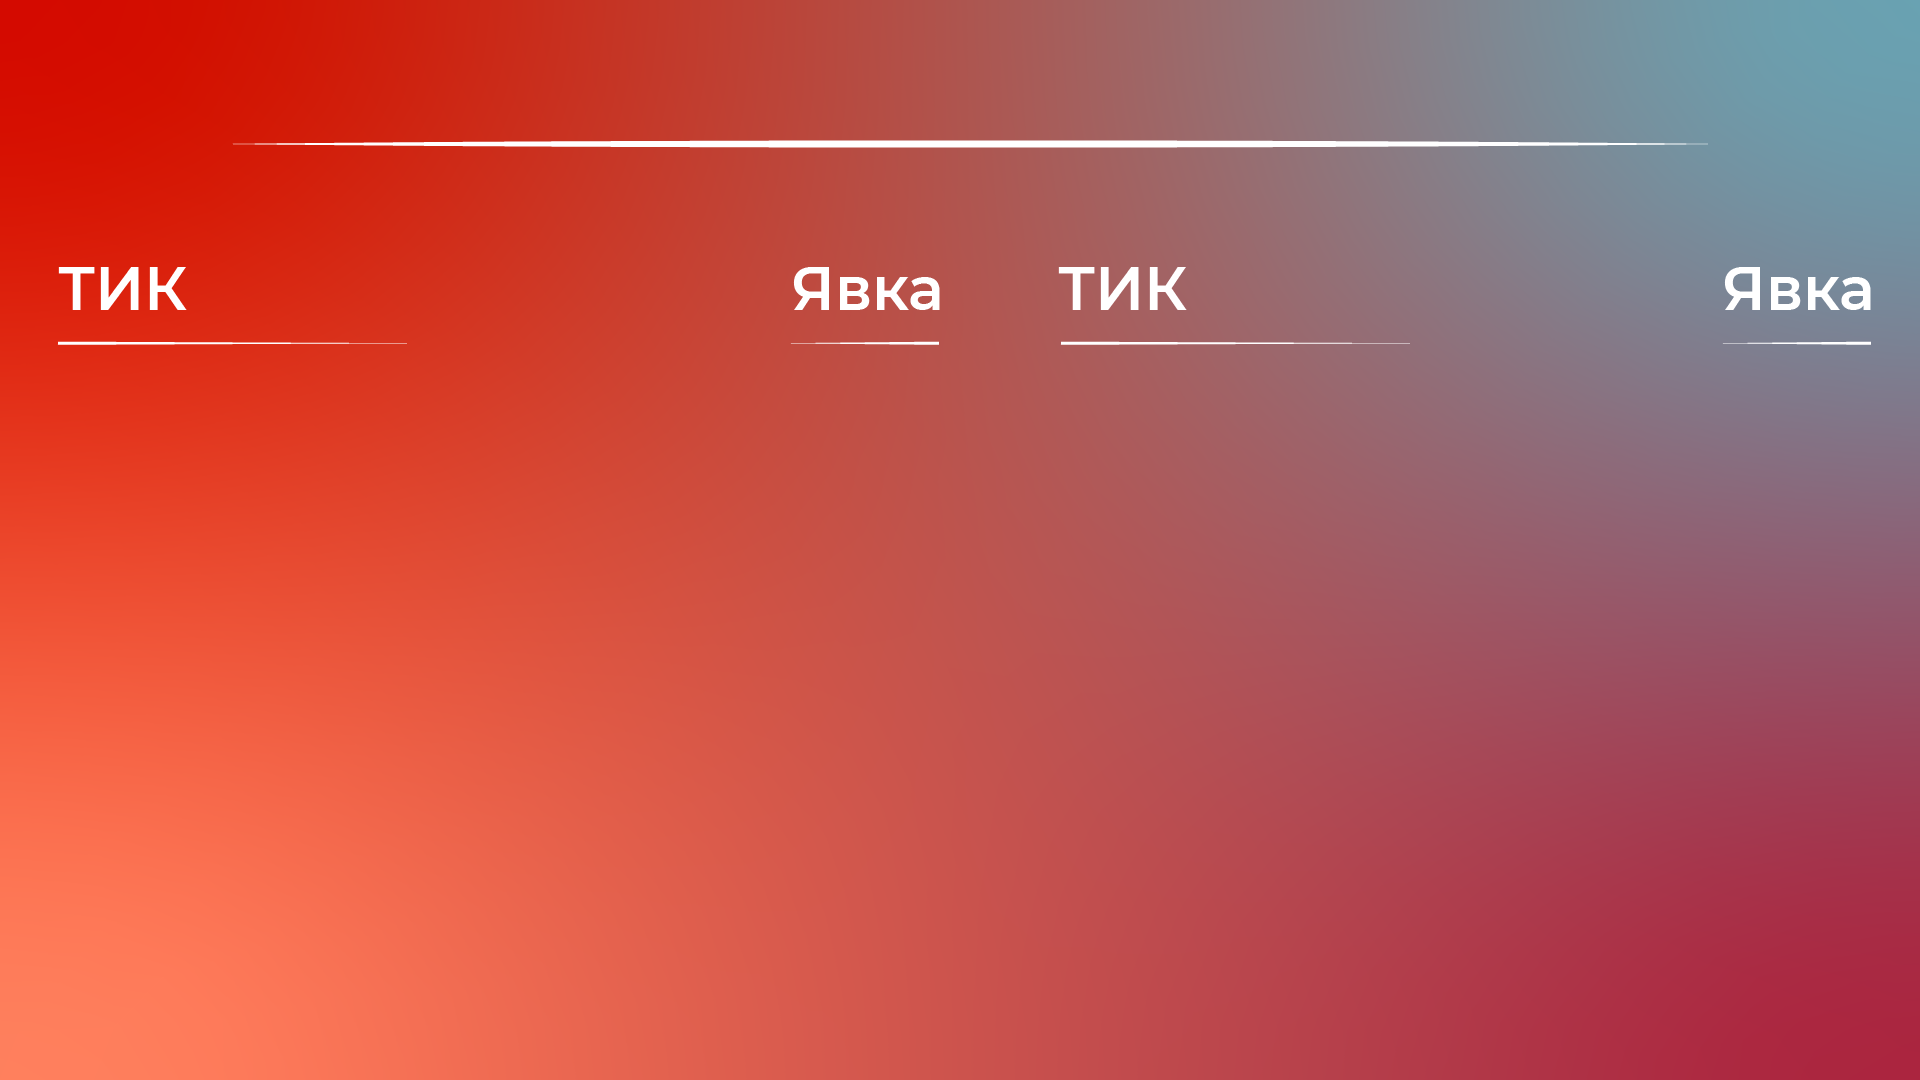
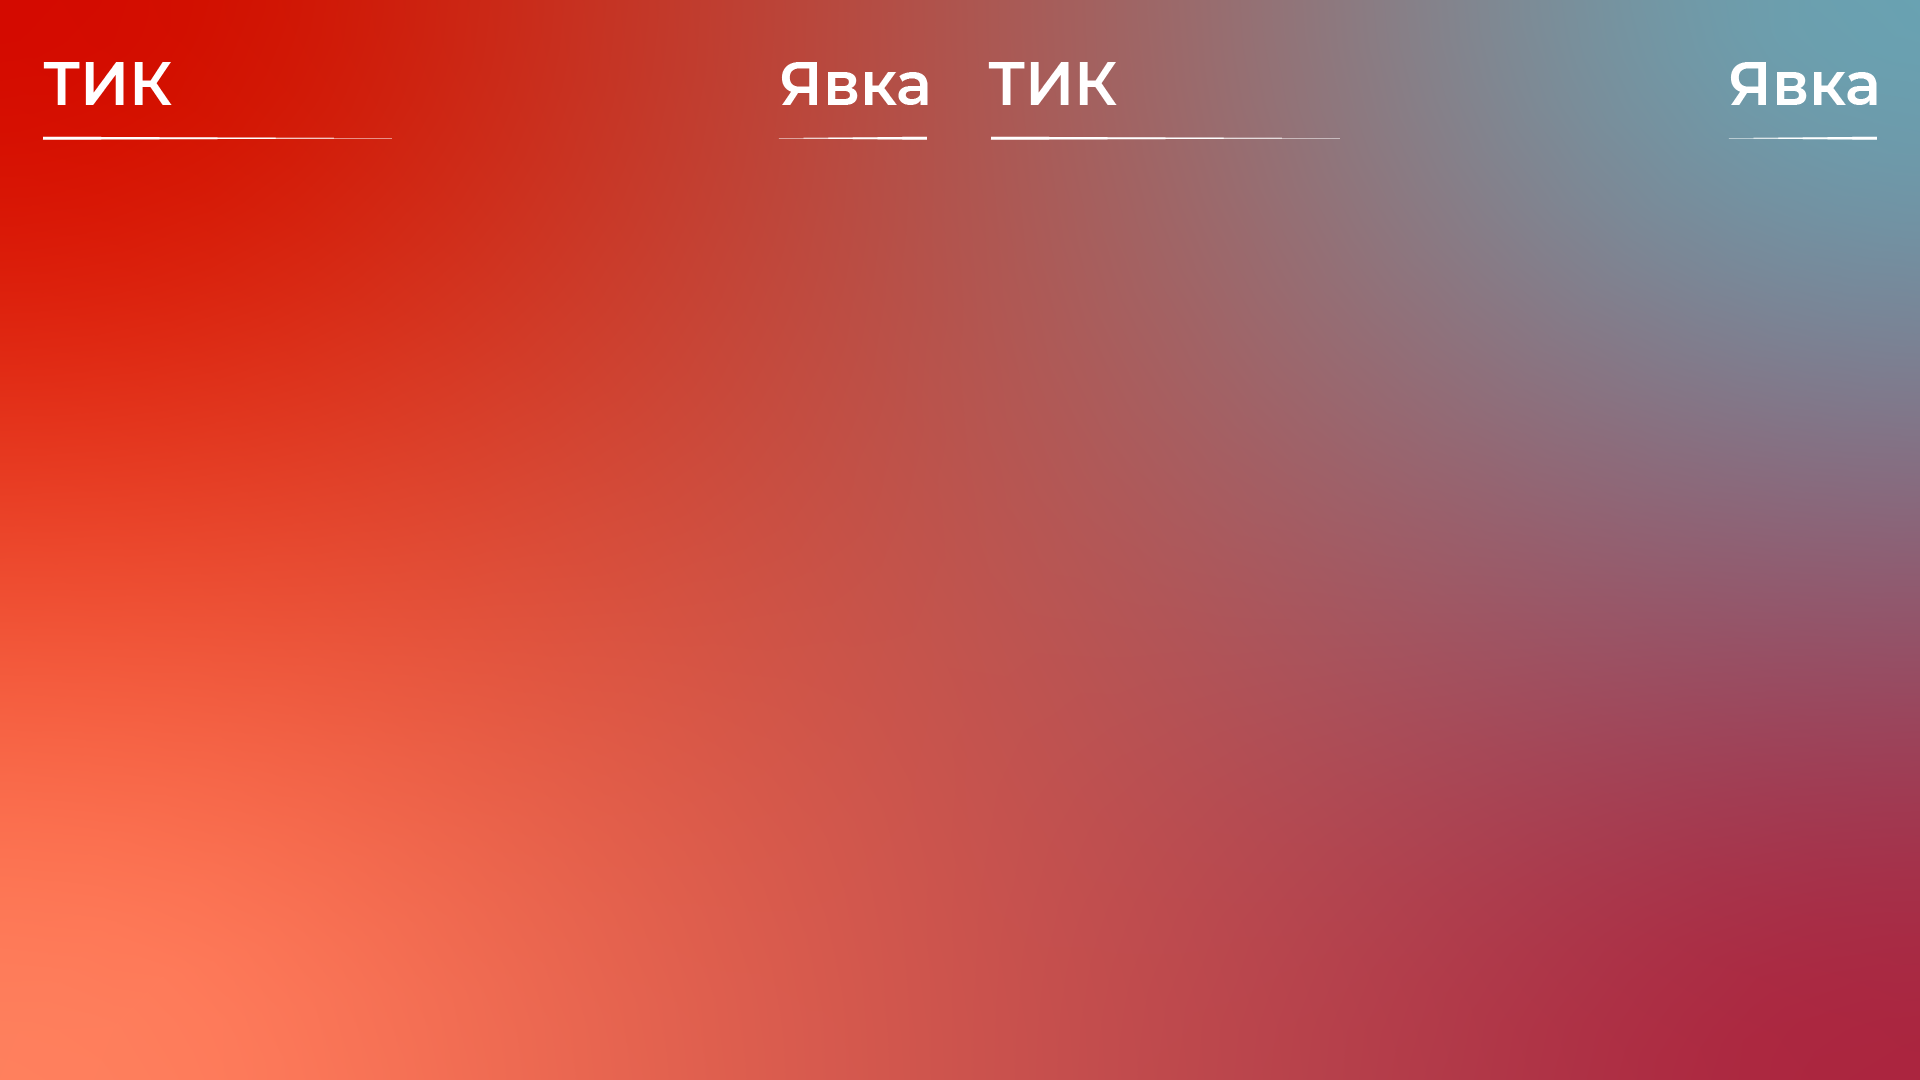
presence display

diff --git a/frontend/src/components/journalistScreens/7_presence.vue b/frontend/src/components/journalistScreens/7_presence.vue
@@ -1,22 +1,29 @@
 <template>
+<div class ="block">
+  <div class="container-fluid" :style="{'background-color': 'transparent !important'}">
 
-  <div class="container">
-
-      <div class="row">
-        <div class="col-sm-6" v-for="(elem, i) in presence.slice(0,8)" :key="i">
+      <div class="row text-white h1 ml-3 mt-5">
+        <div class="col-6" v-for="(elem, i) in presence.slice(0,8)" :key="i">
           <div class="row" v-for="(el, j) in elem" :key="j">
-
-          {{el.num_tik}}
-          {{el.presence}}
+            <div class="col text-left">
+              {{el.num_tik}}
+            </div>
+            <div class="col text-right">
+              {{el.presence}}%
+            </div>
 
           </div>
 
         </div>
-       <div class="col-sm-6" v-for="(elem, i) in presence.slice(8,16)" :key="i">
+       <div class="col-6" v-for="(elem, i) in presence.slice(8,16)" :key="i">
           <div class="row" v-for="(el, j) in elem" :key="j">
+            <div class="col text-left">
 
           {{el.num_tik}}
+              </div>
+            <div class="col text-right">
           {{el.presence}}
+              </div>
 
           </div>
 
@@ -26,6 +33,7 @@
       </div>
 
     </div>
+  </div>
 </template>
 
 <script>
@@ -45,11 +53,15 @@ export default {
 
 <style scoped>
 .block {
-    border: 1px solid blueviolet;
-    height: 400px;
+
+    height: 100vh;
+
+    background-image:url("../../assets/journalistScreens/7.png");
+
     display: flex;
     align-items: center;
     justify-content: center;
+
 
 
 }

diff --git a/frontend/src/components/journalistScreens/5_toptik.vue b/frontend/src/components/journalistScreens/5_toptik.vue
@@ -1,7 +1,17 @@
 <template>
-  <div>
-    {{data.population}}
-    {{data.num_tik}}
+  <div class="block">
+    <div class="container-fluid" :style="{'background-color': 'transparent !important'}">
+      <div class="row">
+        <div class ="col-12 align-self-start">
+        {{data.population}}
+        </div>
+      </div>
+      <div class="row">
+        <div class="col-12 align-self-end">
+          {{data.num_tik}}
+        </div>
+      </div>
+    </div>
   </div>
 </template>
 
@@ -24,5 +34,18 @@ export default {
 </script>
 
 <style scoped>
+.block {
+
+    height: 100vh;
+
+    background-image:url("../../assets/journalistScreens/5.png");
+
+    display: flex;
+    align-items: center;
+    justify-content: center;
+
+
+
+}
 
 </style>

diff --git a/frontend/src/components/Demonstration.vue b/frontend/src/components/Demonstration.vue
@@ -91,7 +91,7 @@ export default {
         if (this.state === 0 || this.state === 5 || this.state === 10) {
           const currentTime = new Date().getTime()
           if (currentTime > this.config.firstConference * 1000) {
-            this.state = 5 //0
+            this.state = 0 //0
           } else if (currentTime > this.config.secondConference * 1000) {
             this.state = 5
           } else if (currentTime > this.config.thirdConference * 1000) {
